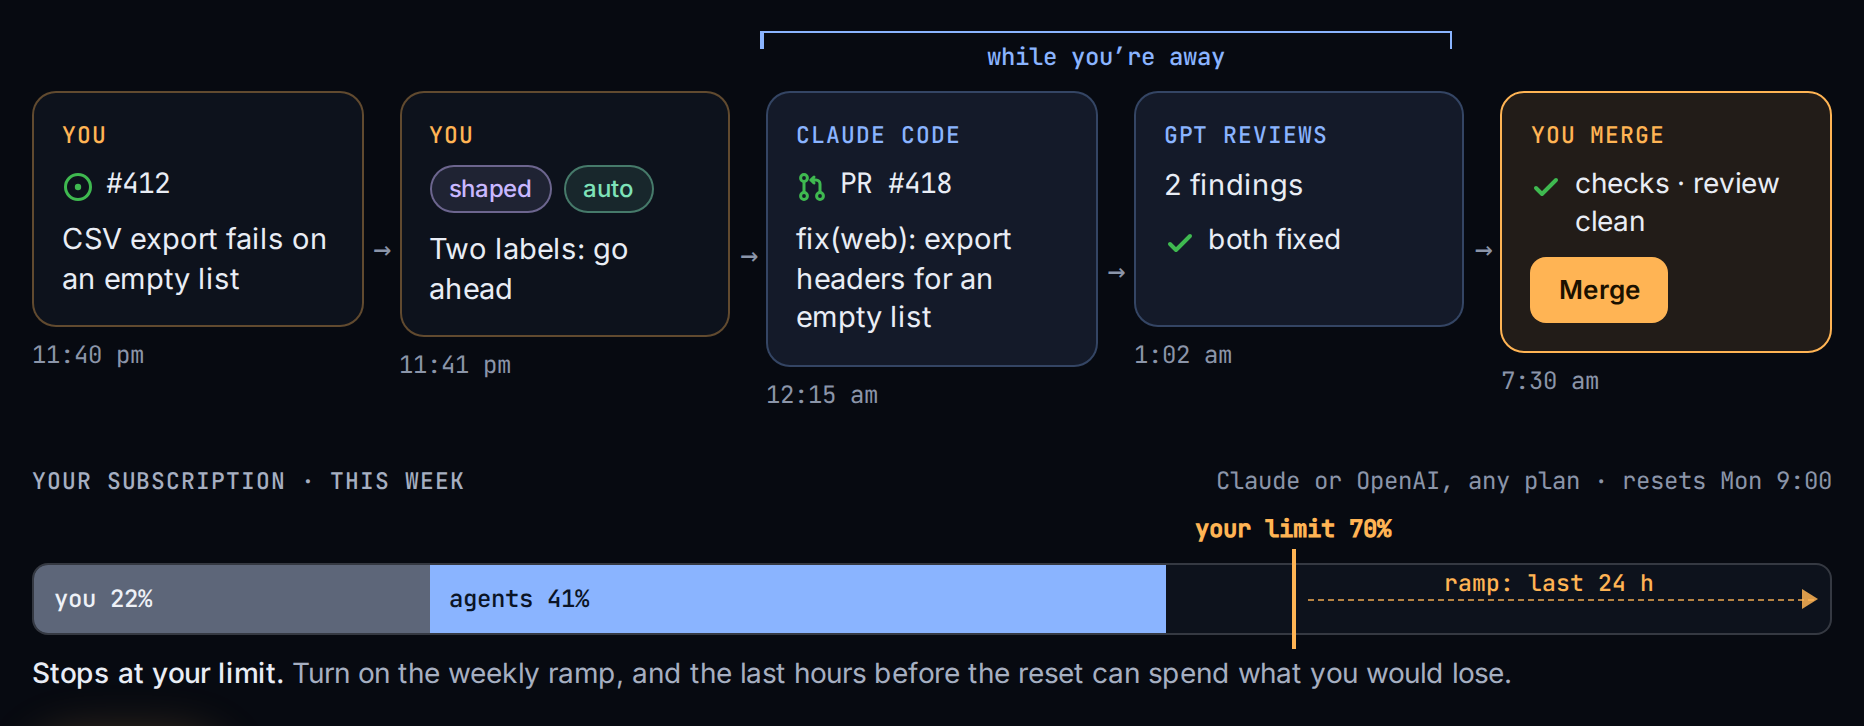
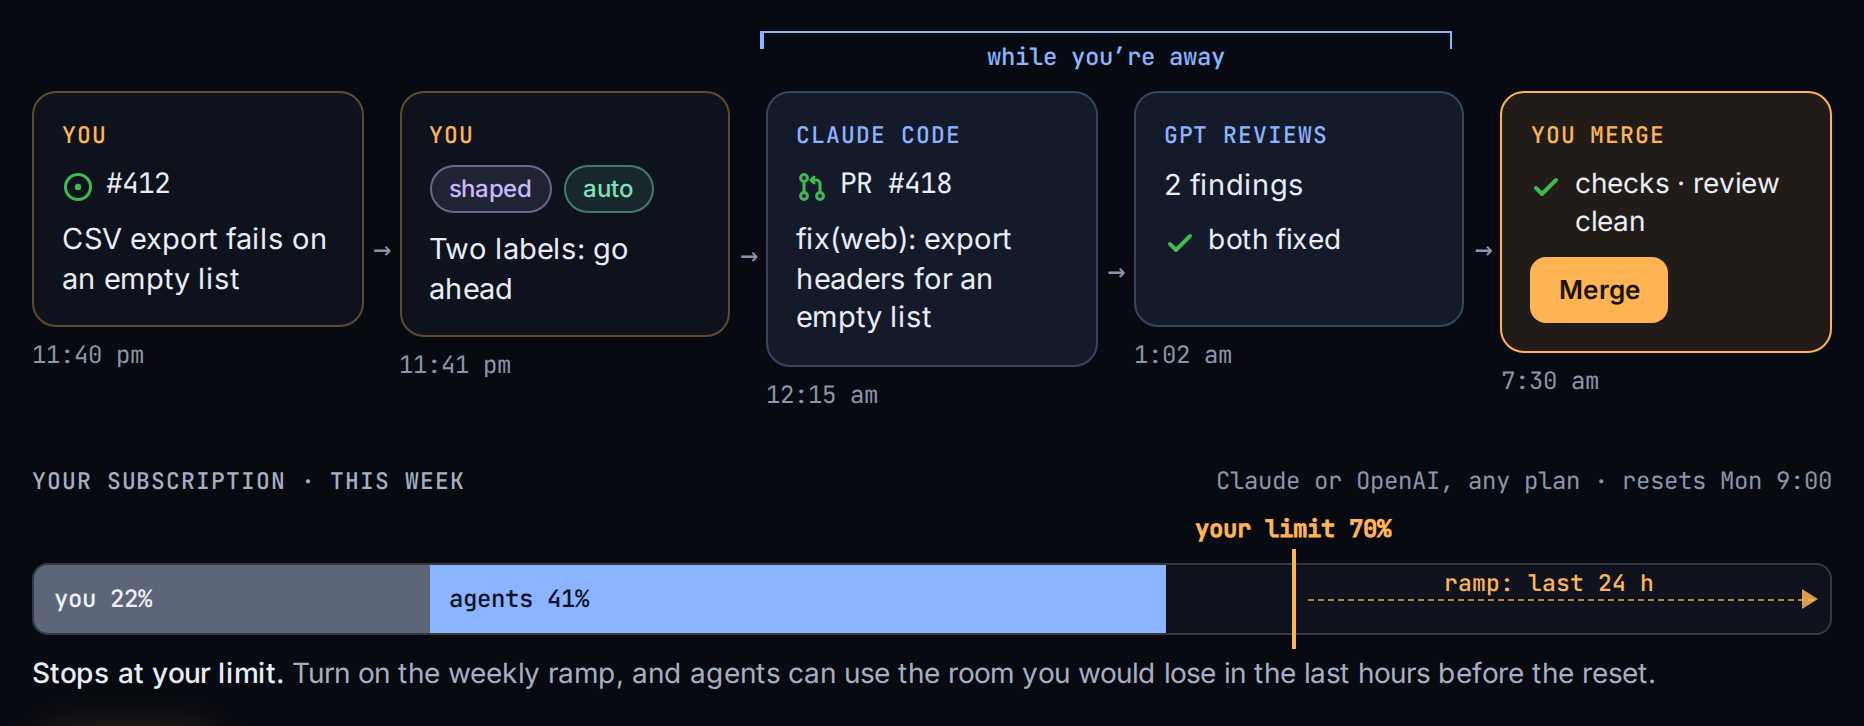
fix(site): show waiting steps faintly on a phone, and plain up the ramp and MCP wording
Review findings on the first screen and the docs:
- On a phone the steps still to come left empty rows during the 4-second play; they now
  show faintly and light up in order. The desktop strip is unchanged.
- The meter note gave "hours" the spending verb; agents now use the room. "A grant cannot
  reach them" reads "cover them" on the page and in the README.
- MCP is spelled out where the README, the reader tasks and llms.txt first use it, the new
  README heading drops its code item, three README lists and the statuses list get an
  introductory sentence, and the quick start's code block follows a colon.
- T9 names the reduced-motion capture that the spec writes.

og.png and loop.png are refreshed from the spec.

Claude-Session: https://claude.ai/code/session_01ErxJ55o3ZVz5VRhZkGe6y8

Changed region(s): [[0.3734, 0.9091, 0.9024, 0.9394]]

diff --git a/site/index.html b/site/index.html
@@ -149,6 +149,7 @@ footer{border-top:1px solid var(--line);padding:30px 0 50px;font-size:14px;color
 
 /* motion: the hero plays once on load, in order, and then rests as the still it already is */
 @keyframes arrive{from{opacity:0;transform:translateY(12px)}}
+@keyframes arrive-dim{from{opacity:.18;transform:translateY(12px)}}
 @keyframes reveal{from{clip-path:inset(-20px 100% -4px 0);opacity:.4}}
 @keyframes grow{from{width:0}}
 @keyframes land{from{box-shadow:0 0 0 0 rgba(255,180,84,.55)}to{box-shadow:0 0 0 18px rgba(255,180,84,0)}}
@@ -173,6 +174,8 @@ footer{border-top:1px solid var(--line);padding:30px 0 50px;font-size:14px;color
   .strip .row{white-space:nowrap}
   .strip .card>:last-child{justify-self:end;text-align:right}
   .strip li:not(:last-child) .card::after{content:none}
+  /* In one column the steps still to come hold their rows, so they show faintly instead of leaving a gap. */
+  .play .strip li{animation-name:arrive-dim}
   .strip .when{display:none}
   .strip li:nth-child(3){margin-top:16px}
   .strip li:nth-child(3)::before{content:"while you're away";position:absolute;top:-16px;left:2px;font:500 10.5px/1 var(--mono);color:var(--agent)}
@@ -236,7 +239,7 @@ footer{border-top:1px solid var(--line);padding:30px 0 50px;font-size:14px;color
         <span class="limit" id="limitLine"><b>your limit 70%</b></span>
         <span class="ramp"><span>ramp: last 24 h</span></span>
       </div>
-      <p class="m-ft"><b>Stops at your limit.</b> Turn on the weekly ramp, and the last hours before the reset can spend what you would lose.</p>
+      <p class="m-ft"><b>Stops at your limit.</b> Turn on the weekly ramp, and agents can use the room you would lose in the last hours before the reset.</p>
     </div>
   </div>
 
@@ -257,7 +260,7 @@ footer{border-top:1px solid var(--line);padding:30px 0 50px;font-size:14px;color
     <li>Deploy to production</li>
     <li>Run anything on a fresh install<small>With no approval and no grant, every dispatch is held.</small></li>
   </ul>
-  <p class="never-note">It refuses these before it checks authority, so a grant written too broadly cannot reach them. One narrow merge exists: with a grant you give, the loop can merge a pull request into <code>dev</code>, never <code>main</code>.</p>
+  <p class="never-note">It refuses these before it checks authority, so a grant written too broadly cannot cover them. One narrow merge exists: with a grant you give, the loop can merge a pull request into <code>dev</code>, never <code>main</code>.</p>
 </section>
 
 <section class="chapter" id="install">

diff --git a/README.md b/README.md
@@ -8,13 +8,15 @@ Your coding agents work your GitHub issues while you're away. They work on the s
 
 ## What it never does
 
-- It never merges into `main`, turns on auto-merge, force-pushes, pushes to a base branch, runs a release, or deploys to production. It refuses these before it checks authority, so a *grant* (standing permission for a class of work) written too broadly cannot reach them.
+The limits that hold on every install:
+
+- It never merges into `main`, turns on auto-merge, force-pushes, pushes to a base branch, runs a release, or deploys to production. It refuses these before it checks authority, so a *grant* (standing permission for a class of work) written too broadly cannot cover them.
 - It runs nothing on a fresh install. With no *approval* (permission for one task) and no grant, every dispatch is held.
 - One narrow merge exists: with a grant you give, the ticket loop can merge a pull request into `dev`, never `main`. [When it may](#when-the-loop-may-merge-into-dev) says how.
 
 ## Quick start
 
-Needs Node.js 22.12 or newer and one signed-in runtime, the agent that does the work. You are the *operator*, the person who owns the installation. [Before you start](#before-you-start) lists the rest.
+Needs Node.js 22.12 or newer and one signed-in runtime, the agent that does the work. You are the *operator*, the person who owns the installation. [Before you start](#before-you-start) lists the rest. The commands:
 
 ```bash
 git clone https://github.com/mocraimer/agent-system.git
@@ -32,7 +34,7 @@ agentsys dispatch --task first-try --repo example-org/larkspur --class ci-repair
 
 `npm install -g .` puts `agentsys` and `agentsys-mcp` on your `PATH`. If it fails with a permissions error, skip it and write `node dist/cli/main.js` wherever this guide says `agentsys`.
 
-Each command should give this result:
+Each command gives this result:
 
 - `init` exits 0 and prints `Operator set to you@example.com. No autonomy grants are active.`
 - `readiness --runtime claude-local` exits 0 and prints `claude-local: ready`, or exits 1 and prints `claude-local: NOT READY` with what is missing. Swap in the runtime you will use. Without `--runtime` it checks all four and exits 1 while any is not set up.
@@ -58,17 +60,19 @@ The steps are in [docs/AGENT-SETUP.md](docs/AGENT-SETUP.md). The `llms.txt` file
 
 ## What you can do
 
+Each row is a job, with the command that starts it and the guide to read next:
+
 | You can | Start with | Read |
 |---|---|---|
 | Work your repository's issues with the ticket loop: shape them, open pull requests for the ones you grant, review and fix them, open a release pull request, and verify the release | `agentsys loop arm --repo <path>` | [Ticket loop example](examples/ticket-loop/README.md), [The ticket loop](docs/OPERATING.md#the-ticket-loop) |
 | Run one approved task on the runtime you choose | `agentsys approve`, then `agentsys dispatch` | [Approving one task](docs/OPERATING.md#approving-one-task) |
 | Repair CI failures: a failed CI run becomes a job, and a standing grant lets matching repairs start without a new approval each time | `agentsys intake --event failure.json` | [Feeding events in](docs/OPERATING.md#feeding-events-in) |
 | Watch and steer in a local console in your browser, or print the same board in a terminal | `agentsys ui --repo <path>` | [Local control UI](docs/CONTROL-UI.md) |
-| Connect a local agent to a stdio MCP server that reads status, jobs, usage, readiness, evaluation, and evidence, and can dispatch inside authority you already gave | `agentsys-mcp` | [Local MCP server](docs/MCP.md) |
+| Connect a local agent to a stdio MCP (Model Context Protocol) server that reads status, jobs, usage, readiness, evaluation, and evidence, and can dispatch inside authority you already gave | `agentsys-mcp` | [Local MCP server](docs/MCP.md) |
 | Keep evidence for every run, count outcomes, and replay frozen cases to compare configurations | `agentsys scorecards` | [Evidence and evaluation](docs/OPERATING.md#evidence-and-evaluation) |
 | Hold work to your subscription's allowance and to a limit on paid provider calls | `agentsys usage`, `agentsys ledger` | [Subscription admission](docs/OPERATING.md#subscription-admission) |
 
-## When the loop may merge into `dev`
+## When the loop may merge into dev
 
 The ticket loop can merge a pull request into `dev` only when all of these are true:
 
@@ -95,7 +99,7 @@ request ──► authority ──► admission ──► runtime ──► evid
 
 ## Before you start
 
-You need:
+You need all of these:
 
 - Node.js 22.12 or newer.
 - At least one runtime, signed in. [What each runtime needs](#what-each-runtime-needs) lists the requirements.
@@ -131,6 +135,8 @@ Two runtimes need a step from you:
 `agentsys loop arm` and `agentsys loop disarm` install and remove a systemd user service, so they need Linux with systemd. On macOS, Windows, or Linux without systemd, run a pass yourself with `agentsys loop --repo <path> --once`.
 
 ## Documentation
+
+These documents go deeper:
 
 - **[docs/OPERATING.md](docs/OPERATING.md)** — the operator guide: setup, authorizing work, model and effort selection, subscription admission, the paid-call ledger, evidence, evaluation, the ticket loop, updating and rollback, and cleanup.
 - **[docs/MCP.md](docs/MCP.md)** — the local stdio MCP server: client setup, its seven tools, and the loopback-only control UI.

diff --git a/docs/READER-TASKS.md b/docs/READER-TASKS.md
@@ -8,6 +8,8 @@ A reader with fresh context walks one task at a time: no memory of this reposito
 
 ## Statuses
 
+A task carries one of three statuses:
+
 - `unverified` — written and never walked.
 - `verified (YYYY-MM-DD)` — walked on that date from the named documents. `; not driven: <what and why>` follows when a part could not be driven.
 - `stale (YYYY-MM-DD): <what differs>` — a later run found the documents no longer match the task.
@@ -39,7 +41,7 @@ A reader with fresh context walks one task at a time: no memory of this reposito
 
 ### T4 — Pick a first job
 
-- **Reader:** A developer who wants one of: an approved task, CI repair, the ticket loop, the console, or the MCP server.
+- **Reader:** A developer who wants one of: an approved task, CI repair, the ticket loop, the console, or the MCP (Model Context Protocol) server.
 - **Documents:** [README.md](../README.md#what-you-can-do)
 - **Ends up able to:** Find the exact next document or command for the chosen job.
 - **Status:** verified (2026-10-16)
@@ -77,5 +79,5 @@ A reader with fresh context walks one task at a time: no memory of this reposito
 - **Reader:** A developer who already uses coding agents, arriving from a link someone sent, who looks at a first screen for about five seconds.
 - **Documents:** [site/index.html](../site/index.html), [README.md](../README.md)
 - **Ends up able to:** Say in one sentence that (a) their coding agents turn their GitHub issues into reviewed pull requests, (b) on the Claude or OpenAI subscription they already pay for, up to a limit they set, and (c) they do the merge.
-- **How it is walked:** The reader sees only screenshots of the first screen, never the source, and answers in one sentence before reading anything else. The screenshots are the page at 1280×800 and at 390×740, each at 2 seconds after load and at rest, and the README's top as GitHub renders it at 1280×800. `npm run test:ui` writes the page's screenshots to `test-results/site-first-screen/`.
+- **How it is walked:** The reader sees only screenshots of the first screen, never the source, and answers in one sentence before reading anything else. The screenshots are the page at 1280×800 and at 390×740, each at 2 seconds after load, at rest, and at rest with reduced motion, and the README's top as GitHub renders it at 1280×800. `npm run test:ui` writes the page's screenshots to `test-results/site-first-screen/`.
 - **Status:** verified (2026-10-16); not driven: a person glancing at the live page, which waits for the merge and the publish; walked by fresh-context readers on screenshots of the page at 1280×800 and 390×740, each at 2 seconds and at rest, and of the README top on GitHub
